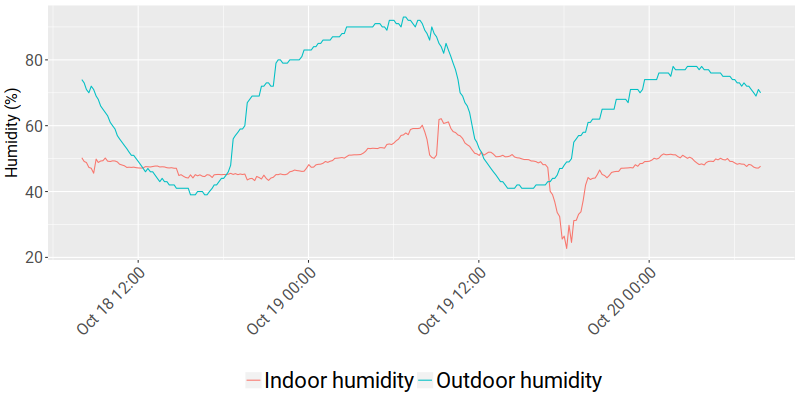
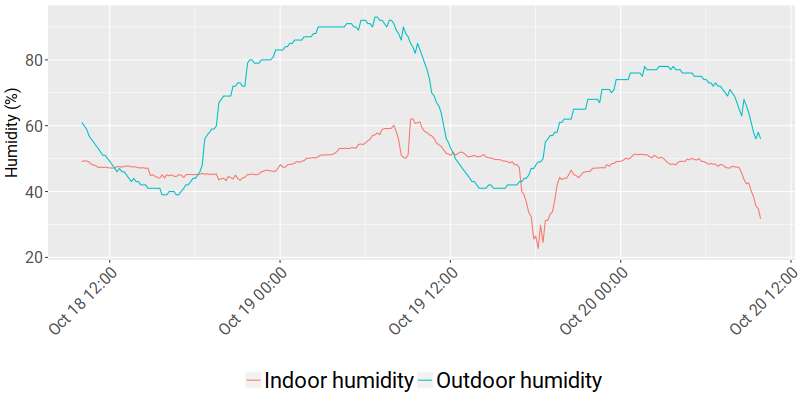
Update live temperature on site

diff --git a/temperature.js b/temperature.js
@@ -1,1 +1,1 @@
-document.write("<h4>Inside Temperature: 17.0°C</h4><h4>Outside Temperature: 12.52°C</h4><h4>Fermenter 1 Temperature: 17.0°C</h4><h4>Fermenter 2 Temperature: 17.13°C</h4><h4>Inside Humidity: 47.7%</h4><h4>Outside Humidity: 70.0%</h4><br>Last update: 2017-10-20 07:50:58");
+document.write("<h4>Inside Temperature: 20.0°C</h4><h4>Outside Temperature: 15.74°C</h4><h4>Fermenter 1 Temperature: 18.13°C</h4><h4>Fermenter 2 Temperature: 17.44°C</h4><h4>Inside Humidity: 31.73%</h4><h4>Outside Humidity: 56.0%</h4><br>Last update: 2017-10-20 09:51:22");
